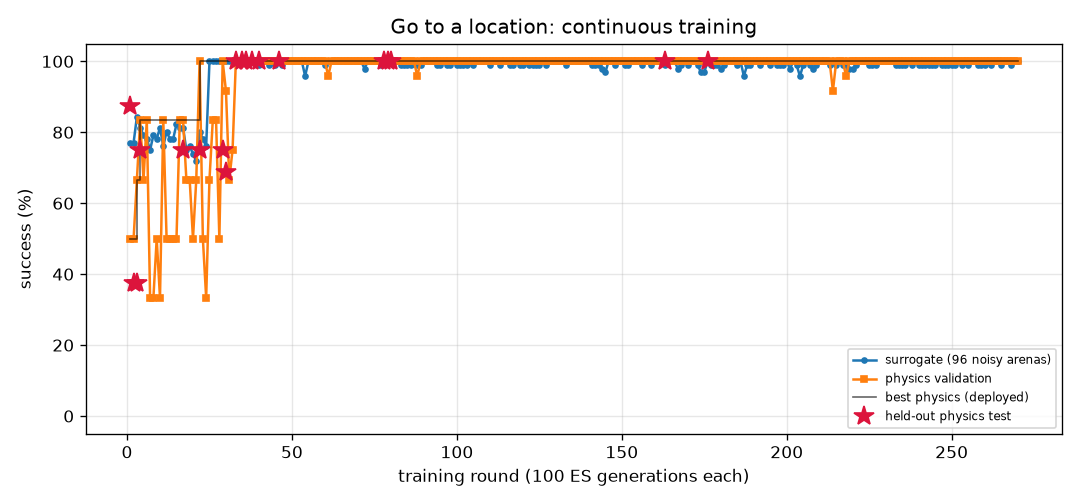
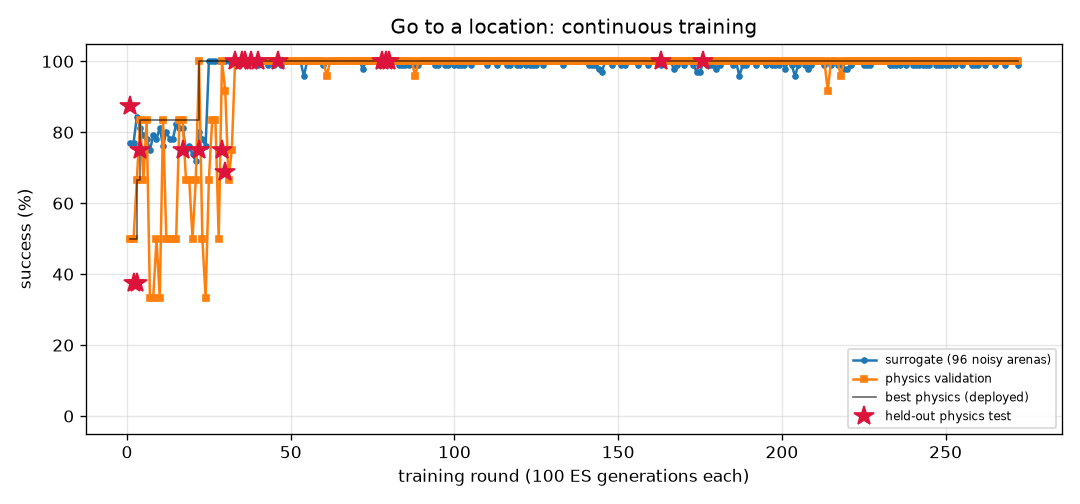
FlyLab: daily snapshot 2026-11-09
Daily entry in projects/09_flylab/training/daily/2026-11.md, plus 12 uncommitted training output file(s).

diff --git a/projects/09_flylab/training/walk_forward/REPORT.md b/projects/09_flylab/training/walk_forward/REPORT.md
@@ -1,14 +1,14 @@
 # Walk forward (`walk_forward`) — training report
 
-*Auto-generated by `train_brains.py`, last updated 2026-11-08T23:58:49.*
+*Auto-generated by `train_brains.py`, last updated 2026-11-09T00:23:44.*
 
 ![curve](curve.png)
 
 | | |
 |---|---|
-| rounds | 342 |
-| ES generations | 34200 |
-| physics runs | 8222 |
+| rounds | 344 |
+| ES generations | 34400 |
+| physics runs | 8270 |
 | status | **optimal** |
 | best brain | round 116: physics validation **100%** on 24 arenas, surrogate 100% |
 | held-out physics test | **100%** on 32 unseen arenas (95% CI 89%-100%) (errors: [0.13, 0.16, 0.19, 0.16, 0.15, 0.2, 0.17, 0.18, 0.17, 0.19, 0.2, 0.14, 0.17, 0.19, 0.2, 0.2, 0.13, 0.19, 0.16, 0.2, 0.2, 0.16, 0.17, 0.2, 0.13, 0.15, 0.18, 0.14, 0.16, 0.15, 0.19, 0.12]) |
@@ -17,8 +17,6 @@ Physics error per arena: mm from target at the end (< 1.5 and standing still = s
 
 | round | level | gens | sigma | surrogate | physics val | val errors | test | note |
 |---:|---:|---:|---:|---:|---:|---|---:|---|
-| 303 | 3 | 30300 | 0.024 | 100% | 96% | [0.19, 0.07, 0.07, 0.33, 0.1, 0.22, 0.08, 0.26, 0.09, 0.1, 0.01, 0.15, 0.03, 0.05, 0.08, 0.13, 0.3, 0.11, 0.07, 0.09, 0.3, 0.12, 0.15, 0.02] |  |  |
-| 304 | 3 | 30400 | 0.024 | 100% | 88% | [0.06, 0.1, 0.14, 0.06, 0.11, 0.06, 0.07, 0.05, 0.14, 0.21, 0.08, 0.16, 0.12, 0.02, 0.12, 0.17, 0.12, 0.14, 0.11, 0.12, 0.19, 0.22, 0.14, 0.1] |  | restart from best |
 | 305 | 3 | 30500 | 0.024 | 100% | 92% | [0.22, 0.27, 0.16, 0.22, 0.28, 0.13, 0.28, 0.04, 0.27, 0.26, 0.06, 0.25, 0.07, 0.05, 0.24, 0.26, 0.2, 0.27, 0.05, 0.25, 0.19, 0.26, 0.24, 0.33] |  |  |
 | 306 | 3 | 30600 | 0.024 | 99% | 100% | [0.32, 0.29, 0.28, 0.32, 0.29, 0.27, 0.29, 0.32, 0.29, 0.27, 0.26, 0.26, 0.3, 0.27, 0.31, 0.26, 0.32, 0.29, 0.32, 0.31, 0.32, 0.27, 0.26, 0.31] |  |  |
 | 307 | 3 | 30700 | 0.025 | 100% | 96% | [0.22, 0.24, 0.05, 0.22, 0.24, 0.03, 0.25, 0.2, 0.24, 0.11, 0.08, 0.1, 0.2, 0.06, 0.24, 0.1, 0.22, 0.24, 0.2, 0.24, 0.2, 0.12, 0.13, 0.2] |  |  |
@@ -57,3 +55,5 @@ Physics error per arena: mm from target at the end (< 1.5 and standing still = s
 | 340 | 3 | 34000 | 0.024 | 100% | 100% | [0.21, 0.22, 0.17, 0.2, 0.22, 0.17, 0.22, 0.18, 0.22, 0.21, 0.16, 0.21, 0.17, 0.17, 0.21, 0.21, 0.2, 0.22, 0.18, 0.22, 0.19, 0.22, 0.21, 0.17] |  | restart from best |
 | 341 | 3 | 34100 | 0.024 | 100% | 100% | [0.33, 0.36, 0.29, 0.33, 0.36, 0.28, 0.36, 0.29, 0.36, 0.36, 0.27, 0.35, 0.3, 0.27, 0.34, 0.36, 0.32, 0.36, 0.28, 0.34, 0.3, 0.36, 0.35, 0.3] |  |  |
 | 342 | 3 | 34200 | 0.024 | 100% | 100% | [0.3, 0.34, 0.23, 0.29, 0.35, 0.23, 0.35, 0.24, 0.34, 0.33, 0.24, 0.32, 0.24, 0.24, 0.32, 0.33, 0.28, 0.34, 0.25, 0.32, 0.25, 0.33, 0.31, 0.24] |  |  |
+| 343 | 3 | 34300 | 0.024 | 99% | 100% | [0.23, 0.2, 0.25, 0.22, 0.21, 0.24, 0.2, 0.24, 0.2, 0.18, 0.23, 0.17, 0.25, 0.25, 0.22, 0.18, 0.23, 0.21, 0.25, 0.21, 0.24, 0.19, 0.16, 0.25] |  |  |
+| 344 | 3 | 34400 | 0.025 | 99% | 100% | [0.29, 0.29, 0.29, 0.3, 0.29, 0.27, 0.28, 0.31, 0.29, 0.27, 0.24, 0.26, 0.32, 0.29, 0.3, 0.26, 0.29, 0.29, 0.31, 0.3, 0.31, 0.27, 0.26, 0.32] |  | restart from best |

diff --git a/projects/09_flylab/training/goto/REPORT.md b/projects/09_flylab/training/goto/REPORT.md
@@ -1,14 +1,14 @@
 # Go to a location (`goto`) — training report
 
-*Auto-generated by `train_brains.py`, last updated 2026-11-08T21:12:31.*
+*Auto-generated by `train_brains.py`, last updated 2026-11-09T00:21:29.*
 
 ![curve](curve.png)
 
 | | |
 |---|---|
-| rounds | 270 |
-| ES generations | 27000 |
-| physics runs | 6430 |
+| rounds | 272 |
+| ES generations | 27200 |
+| physics runs | 6478 |
 | status | **optimal** |
 | best brain | round 176: physics validation **100%** on 24 arenas, surrogate 100% |
 | held-out physics test | **100%** on 32 unseen arenas (95% CI 89%-100%) (errors: [0.2, 0.32, 0.19, 0.24, 0.18, 0.2, 0.19, 0.17, 0.22, 0.23, 0.23, 0.26, 0.2, 0.19, 0.24, 0.23, 0.22, 0.24, 0.2, 0.22, 0.2, 0.2, 0.26, 0.19, 0.22, 0.18, 0.26, 0.22, 0.2, 0.26, 0.23, 0.23]) |
@@ -17,8 +17,6 @@ Physics error per arena: mm from target at the end (< 1.5 and standing still = s
 
 | round | level | gens | sigma | surrogate | physics val | val errors | test | note |
 |---:|---:|---:|---:|---:|---:|---|---:|---|
-| 231 | 3 | 23100 | 0.024 | 100% | 100% | [0.57, 0.56, 0.59, 0.49, 0.5, 0.47, 0.57, 0.54, 0.54, 0.47, 0.46, 0.48, 0.6, 0.49, 0.55, 0.56, 0.6, 0.48, 0.47, 0.54, 0.56, 0.48, 0.6, 0.49] |  |  |
-| 232 | 3 | 23200 | 0.024 | 100% | 100% | [0.54, 0.56, 0.57, 0.48, 0.42, 0.46, 0.52, 0.51, 0.47, 0.43, 0.42, 0.46, 0.55, 0.45, 0.51, 0.51, 0.58, 0.45, 0.41, 0.5, 0.48, 0.44, 0.57, 0.47] |  | restart from best |
 | 233 | 3 | 23300 | 0.024 | 99% | 100% | [0.67, 0.6, 0.65, 0.57, 0.44, 0.53, 0.57, 0.6, 0.63, 0.46, 0.47, 0.56, 0.65, 0.48, 0.5, 0.54, 0.68, 0.6, 0.45, 0.62, 0.51, 0.5, 0.67, 0.56] |  |  |
 | 234 | 3 | 23400 | 0.025 | 99% | 100% | [0.5, 0.43, 0.43, 0.33, 0.31, 0.32, 0.49, 0.32, 0.42, 0.32, 0.31, 0.31, 0.43, 0.28, 0.33, 0.33, 0.42, 0.42, 0.33, 0.39, 0.34, 0.3, 0.4, 0.36] |  |  |
 | 235 | 3 | 23500 | 0.025 | 99% | 100% | [0.49, 0.48, 0.49, 0.39, 0.35, 0.37, 0.52, 0.4, 0.4, 0.35, 0.33, 0.37, 0.49, 0.34, 0.39, 0.4, 0.5, 0.45, 0.34, 0.46, 0.39, 0.35, 0.48, 0.4] |  |  |
@@ -57,3 +55,5 @@ Physics error per arena: mm from target at the end (< 1.5 and standing still = s
 | 268 | 3 | 26800 | 0.024 | 99% | 100% | [0.61, 0.59, 0.57, 0.46, 0.45, 0.46, 0.61, 0.48, 0.51, 0.46, 0.42, 0.43, 0.54, 0.45, 0.53, 0.5, 0.46, 0.47, 0.45, 0.53, 0.48, 0.45, 0.55, 0.46] |  | restart from best |
 | 269 | 3 | 26900 | 0.024 | 100% | 100% | [0.36, 0.38, 0.3, 0.35, 0.28, 0.34, 0.32, 0.37, 0.38, 0.28, 0.29, 0.34, 0.37, 0.33, 0.32, 0.32, 0.38, 0.34, 0.27, 0.36, 0.32, 0.28, 0.39, 0.37] |  |  |
 | 270 | 3 | 27000 | 0.024 | 100% | 100% | [0.67, 0.65, 0.57, 0.62, 0.55, 0.6, 0.61, 0.66, 0.65, 0.53, 0.55, 0.6, 0.69, 0.57, 0.55, 0.58, 0.68, 0.63, 0.56, 0.66, 0.59, 0.56, 0.69, 0.63] |  |  |
+| 271 | 3 | 27100 | 0.024 | 100% | 100% | [0.51, 0.5, 0.45, 0.52, 0.42, 0.49, 0.49, 0.55, 0.55, 0.45, 0.44, 0.5, 0.55, 0.47, 0.47, 0.48, 0.55, 0.47, 0.42, 0.55, 0.46, 0.46, 0.55, 0.51] |  |  |
+| 272 | 3 | 27200 | 0.024 | 99% | 100% | [0.39, 0.4, 0.28, 0.39, 0.29, 0.35, 0.39, 0.42, 0.42, 0.34, 0.32, 0.38, 0.44, 0.35, 0.42, 0.36, 0.42, 0.33, 0.3, 0.41, 0.33, 0.33, 0.45, 0.36] |  | restart from best |

diff --git a/projects/09_flylab/training/TRAINING.md b/projects/09_flylab/training/TRAINING.md
@@ -1,14 +1,14 @@
 # FlyLab brains — continuous training log
 
-*Auto-generated by `train_brains.py`, last updated 2026-11-08T23:58:49.*
+*Auto-generated by `train_brains.py`, last updated 2026-11-09T00:23:44.*
 
 Every skill has its own brain and its own training process: surrogate ES rounds, physics validation in MuJoCo, keep-the-best selection, and a held-out physics test that is never used for selection. See each skill's report for its full round-by-round history. Mastery is progressive: passing a level (100% physics validation, >=95% surrogate) doubles the validation and test arena sets; a brain is **optimal** once it holds up at level 3 (>=95% of 24 validation arenas) AND scores >=90% on the 32 held-out test arenas. Test columns show 95% Wilson confidence intervals.
 
 | skill | rounds | ES generations | physics runs | surrogate | physics val | **physics test** | status |
 |---|---:|---:|---:|---:|---:|---:|---|
-| [Walk forward](walk_forward/REPORT.md) | 342 | 34200 | 8222 | 100% | 100% of 24 | 100% of 32 (CI 89-100%) | **optimal** |
+| [Walk forward](walk_forward/REPORT.md) | 344 | 34400 | 8270 | 100% | 100% of 24 | 100% of 32 (CI 89-100%) | **optimal** |
 | [Turn in place](turn/REPORT.md) | 952 | 95200 | 23094 | 100% | 100% of 24 | 97% of 32 (CI 84-99%) | **optimal** |
-| [Go to a location](goto/REPORT.md) | 270 | 27000 | 6430 | 100% | 100% of 24 | 100% of 32 (CI 89-100%) | **optimal** |
+| [Go to a location](goto/REPORT.md) | 272 | 27200 | 6478 | 100% | 100% of 24 | 100% of 32 (CI 89-100%) | **optimal** |
 | [Find food by smell](odor_seek/REPORT.md) | 224 | 22400 | 4806 | 100% | 100% of 24 | 100% of 32 (CI 89-100%) | **optimal** |
 | [Escape a bad smell](odor_avoid/REPORT.md) | 854 | 85400 | 17802 | 97% | 100% of 24 | 97% of 32 (CI 84-99%) | **optimal** |
 | [Walk toward light](light_seek/REPORT.md) | 469 | 46900 | 8136 | 100% | 100% of 24 | 100% of 32 (CI 89-100%) | **optimal** |

diff --git a/projects/09_flylab/training/daily/2026-11.md b/projects/09_flylab/training/daily/2026-11.md
@@ -16,3 +16,18 @@ Written by daily_commit.py once a day.
 
 - training supervisor: running
 - commits in the last 24 h: 17 (latest `777cad2 11:38 FlyLab: guaranteed daily local commit (daily_commit.py)`)
+
+## 2026-11-09 (Mon)
+
+| brain | state | level | physics val | test | round |
+|---|---|---|---|---|---|
+| walk_forward | optimal | 3 | 100% of 24 | 100% | 344 |
+| turn | optimal | 3 | 100% of 24 | 97% | 952 |
+| goto | optimal | 3 | 100% of 24 | 100% | 272 |
+| odor_seek | optimal | 3 | 100% of 24 | 100% | 224 |
+| odor_avoid | optimal | 3 | 100% of 24 | 97% | 854 |
+| light_seek | optimal | 3 | 100% of 24 | 100% | 469 |
+| light_avoid | optimal | 3 | 100% of 24 | 100% | 587 |
+
+- training supervisor: running
+- commits in the last 24 h: 20 (latest `9a2914d 00:03 FlyLab: continuous training progress`)
